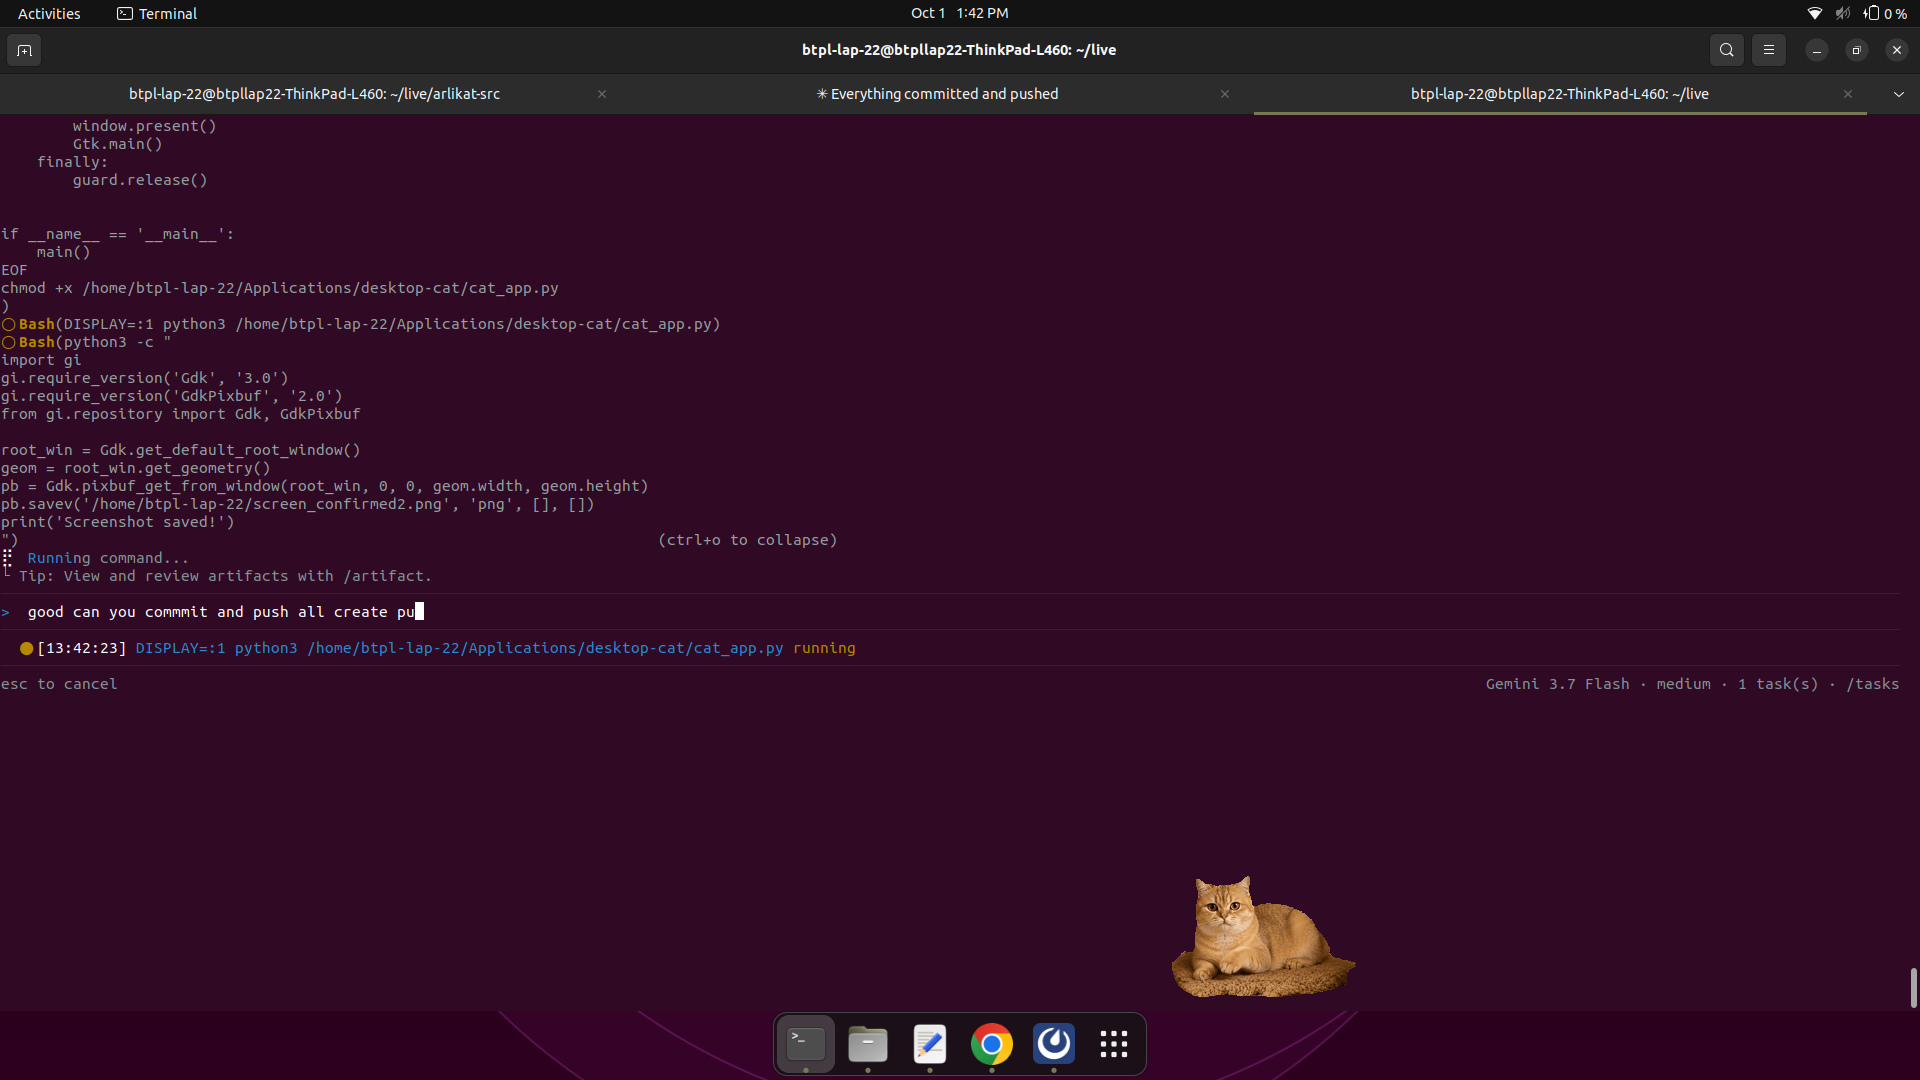
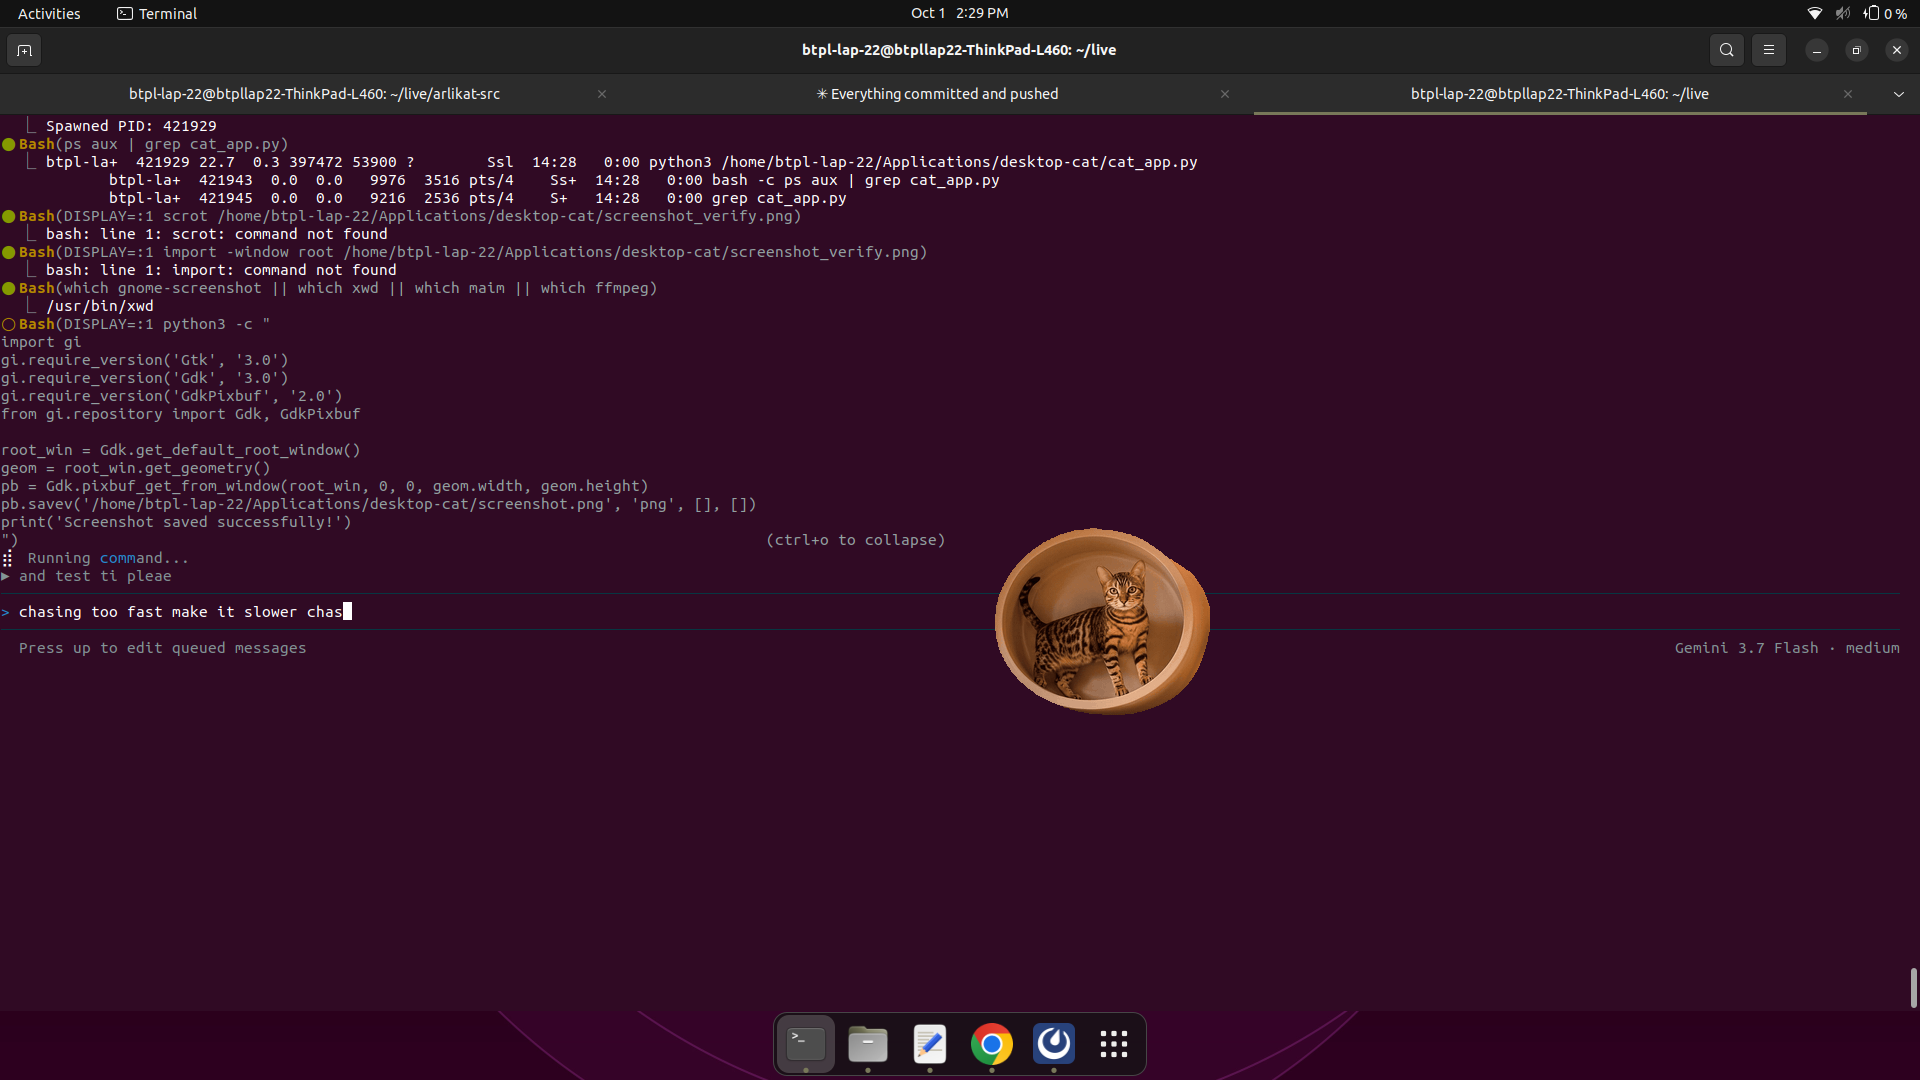
fix(x11): fix 64-bit ctypes pointer definitions and update screenshot

diff --git a/cat_app.py b/cat_app.py
@@ -75,8 +75,14 @@ class X11KeyboardDetector:
     """Detects global keyboard typing activity across any window in X11."""
     def __init__(self):
         self.available = False
+        self.display = None
         try:
             self.x11 = ctypes.cdll.LoadLibrary('libX11.so.6')
+            self.x11.XOpenDisplay.restype = ctypes.c_void_p
+            self.x11.XOpenDisplay.argtypes = [ctypes.c_char_p]
+            self.x11.XQueryKeymap.argtypes = [ctypes.c_void_p, ctypes.c_char_p]
+            self.x11.XCloseDisplay.argtypes = [ctypes.c_void_p]
+
             self.display = self.x11.XOpenDisplay(None)
             if self.display:
                 self.available = True
@@ -86,7 +92,7 @@ class X11KeyboardDetector:
             self.available = False
 
     def is_typing(self) -> bool:
-        if not self.available:
+        if not self.available or not self.display:
             return False
         current_keys = (ctypes.c_char * 32)()
         self.x11.XQueryKeymap(self.display, current_keys)
@@ -100,6 +106,7 @@ class X11KeyboardDetector:
         if self.available and self.display:
             try:
                 self.x11.XCloseDisplay(self.display)
+                self.display = None
             except Exception:
                 pass
 
